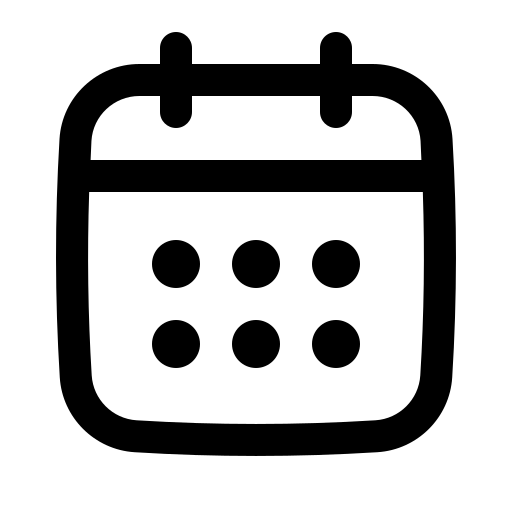
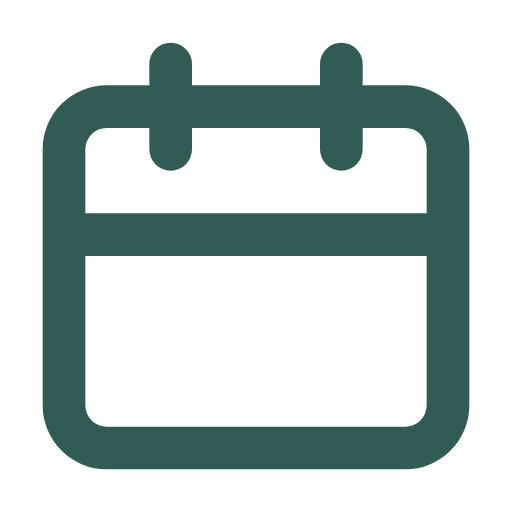
Enhance Invitation component layout with decorative elements; improve MusicPlayer button structure and styling; fix music URL path and update DANA account number in wedding config; update calendar and location images

diff --git a/components/Invitation.tsx b/components/Invitation.tsx
@@ -248,8 +248,15 @@ export function Invitation({ guestName }: { guestName: string }) {
           ))}
         </div>
       </section>
-      <section className="px-6 py-20 sm:py-24">
-        <div className="mx-auto max-w-4xl text-center">
+      <section className="relative overflow-hidden bg-[#fbfefd] px-6 py-20 sm:py-24">
+        <Flower className="pointer-events-none absolute -left-10 top-10 w-32 text-[#319c91]/10 sm:left-6 sm:w-40" />
+        <Flower className="pointer-events-none absolute -right-10 bottom-8 w-32 rotate-90 text-[#319c91]/10 sm:right-6 sm:w-40" />
+        <div className="relative z-10 mx-auto max-w-4xl text-center">
+          <div aria-hidden="true" className="mx-auto mb-5 flex items-center justify-center gap-3 text-[#8bc9bd]/70">
+            <span className="h-px w-12 bg-current" />
+            <span className="size-2 rotate-45 border border-current" />
+            <span className="h-px w-12 bg-current" />
+          </div>
           <p className="eyebrow text-[10px] text-[#319c91]">CERITA CINTA</p>
           <h2 className="mt-3 font-serif text-4xl text-[#236e64] sm:text-5xl">
             Sepenggal Kisah
@@ -282,7 +289,7 @@ export function Invitation({ guestName }: { guestName: string }) {
           {wedding.bankAccounts.map((bank) => (
             <div
               key={`${bank.name}-${bank.account}`}
-              className="border border-[#cce3dd] bg-white p-6"
+              className="rounded-2xl border border-[#cce3dd] bg-white p-6"
             >
               <p className="font-serif text-2xl text-[#236e64]">{bank.name}</p>
               <p className="mt-3 text-lg tracking-widest text-[#315c55]">

diff --git a/components/MusicPlayer.tsx b/components/MusicPlayer.tsx
@@ -7,8 +7,36 @@ export function MusicPlayer({ src }: { src: string }) {
   const [playing, setPlaying] = useState(false);
   async function toggle() {
     if (!audio.current) return;
-    if (playing) { audio.current.pause(); setPlaying(false); }
-    else { try { await audio.current.play(); setPlaying(true); } catch { setPlaying(false); } }
+    if (playing) {
+      audio.current.pause();
+      setPlaying(false);
+    } else {
+      try {
+        await audio.current.play();
+        setPlaying(true);
+      } catch {
+        setPlaying(false);
+      }
+    }
   }
-  return <><audio ref={audio} src={src} loop preload="none" onPause={() => setPlaying(false)} onPlay={() => setPlaying(true)} /><button onClick={toggle} aria-label={playing ? "Jeda musik" : "Putar musik"} className="music-player-button fixed bottom-5 right-5 z-40 grid h-12 w-12 place-items-center rounded-full bg-[#236e64] text-xl text-white shadow-lg" title={playing ? "Jeda musik" : "Putar musik"}>{playing ? "Ⅱ" : "♫"}</button></>;
+  return (
+    <>
+      <audio
+        ref={audio}
+        src={src}
+        loop
+        preload="none"
+        onPause={() => setPlaying(false)}
+        onPlay={() => setPlaying(true)}
+      />
+      <button
+        onClick={toggle}
+        aria-label={playing ? "Jeda musik" : "Putar musik"}
+        className="music-player-button fixed bottom-5 right-5 z-40 grid h-12 w-12 place-items-center rounded-full bg-[#236e64] text-xl text-white shadow-lg"
+        title={playing ? "Jeda musik" : "Putar musik"}
+      >
+        {playing ? "||" : "♫"}
+      </button>
+    </>
+  );
 }

diff --git a/config/wedding.ts b/config/wedding.ts
@@ -10,13 +10,13 @@ export const wedding = {
     alt: `Foto galeri pernikahan ${index + 1}`,
   })),
   saveTheDatePhoto: "/images/wedding/save-the-date.jpg",
-  musicUrl: " public/audio/wedding-song.mp3",
+  musicUrl: "/audio/wedding-song.mp3",
   events: [
     { type: "Resepsi", time: "10.30 – Selesai", place: "CV Abynet", mapsUrl: "https://maps.app.goo.gl/YyPJGYvc9RVsa1GB8?g_st=ic" },
   ],
   bankAccounts: [
     { name: "Bank BCA", account: "5421170089", holder: "Rifqi Subakti" },
     { name: "Bank MANDIRI", account: "13100192624107", holder: "Natashya" },
-    { name: "DANA", account: "0896303667", holder: "Rifqi Subakti" },
+    { name: "DANA", account: "089630366367", holder: "Rifqi Subakti" },
   ],
 } as const;
